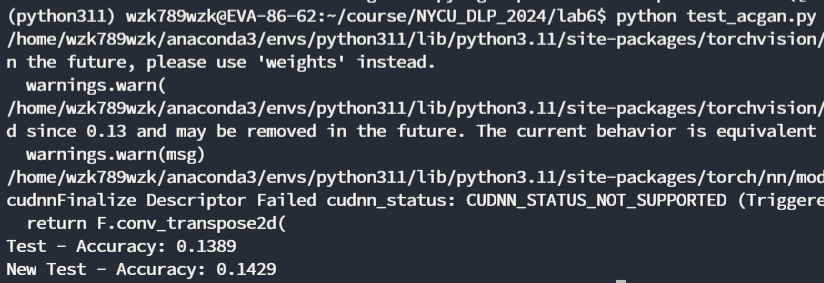
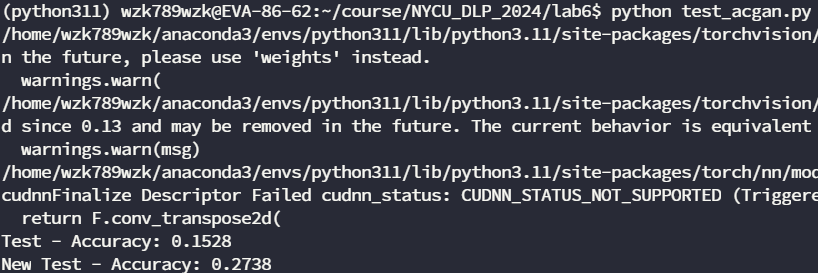
update gan results

Changed region(s): [[0.0, 0.0, 1.0, 1.0], [0.7335, 0.967, 0.7641, 1.0]]

diff --git a/lab6/test_dm.py b/lab6/test_dm.py
@@ -1,6 +1,8 @@
 # inference diffusion model
 import os
+import json
 import argparse
+import numpy as np
 
 import torch
 from torch.utils.data import DataLoader
@@ -29,17 +31,29 @@ def main(args):
     unet_model = Unet().to(args.device)
     ddpm = DDPM(unet_model=unet_model, betas=(args.beta_start, args.beta_end), noise_steps=args.step, device=args.device).to(device)
 
+    # condition
+    condition =  ['red sphere', 'yellow cube', 'cyan cylinder']
+    
+    object_class_id = json.load(open(os.path.join(args.root, 'objects.json')))
+    one_hot_vector = torch.zeros(len(object_class_id))
+    for obj in condition:
+        one_hot_vector[object_class_id[obj]] = 1
+    print(one_hot_vector)
+
     # test set
     acc = 0.0
     ddpm.load_state_dict(torch.load(args.weight_t))
     
     # The sampling process is stochastic, with an accuracy range of 0.69 to 0.82.
     # It can't guarantee the accuracy always larger than 0.8
+    acc, grid, grid_step = test(ddpm, evaluator, [one_hot_vector], device)
+    path = os.path.join(args.output_path, 'test_process.png')
+    save_image(grid_step, path)
+    
     acc, grid, grid_step = test(ddpm, evaluator, test_dataloader, device)
     path = os.path.join(args.output_path, 'test.png')
     save_image(grid, path)
-    path = os.path.join(args.output_path, 'test_process.png')
-    save_image(grid_step, path)
+
     print(f'Test set accuracy={acc:.4f}')
     
     # new test set
@@ -48,15 +62,21 @@ def main(args):
     
     # The sampling process is stochastic, with an accuracy range of 0.69 to 0.82.
     # It can't guarantee the accuracy always larger than 0.8
-    acc, grid, grid_step = test(ddpm, evaluator, new_test_dataloader, device)
-    path = os.path.join(args.output_path, 'new_test.png')
-    save_image(grid, path)
+    acc, grid, grid_step = test(ddpm, evaluator, [one_hot_vector], device)
     path = os.path.join(args.output_path, 'new_test_process.png')
     save_image(grid_step, path)
     
+    acc, grid, grid_step = test(ddpm, evaluator, new_test_dataloader, device)
+    path = os.path.join(args.output_path, 'new_test.png')
+    save_image(grid, path)
+    
     print(f'New test set accuracy={acc:.4f}')
     
-
+    
+    
+    # denoising process
+    
+    
 def test(ddpm, evaluator, test_dataloader, device):
     ddpm.eval()
     x_gen, label = [], []

diff --git a/lab6/test_acgan.py b/lab6/test_acgan.py
@@ -37,7 +37,7 @@ def main(args):
     
     # test set
     acc = 0.0
-    netG.load_state_dict(torch.load(os.path.join(root, 'Epoch_75', 'netG_Epoch_75.pth')))
+    netG.load_state_dict(torch.load(os.path.join(root, 'netG_best.pth')))
     
     acc, grid = test(args, netG, evaluator, test_dataloader, device)
     path = os.path.join(args.output_path, 'test.png')
@@ -48,7 +48,7 @@ def main(args):
     
     # new test set
     acc = 0.0
-    netG.load_state_dict(torch.load(os.path.join(root, 'Epoch_75', 'netG_Epoch_75.pth')))
+    netG.load_state_dict(torch.load(os.path.join(root, 'netG_new_best.pth')))
     
     acc, grid = test(args, netG, evaluator, new_test_dataloader, device)
     path = os.path.join(args.output_path, 'new_test.png')
@@ -90,8 +90,8 @@ if __name__ == '__main__':
     parser.add_argument('--num_class', type=int, default=24, help='numbers of class')
     parser.add_argument('--c_dims', type=int, default=100, help='condition dimension')
     parser.add_argument('--Z_dims', type=int, default=100, help='latent dimension')
-    parser.add_argument('--G_dims', type=int, default=64, help='generator feature dimension')
-    parser.add_argument('--D_dims', type=int, default=64, help='discriminator feature dimension')
+    parser.add_argument('--G_dims', type=int, default=200, help='generator feature dimension')
+    parser.add_argument('--D_dims', type=int, default=200, help='discriminator feature dimension')
 
     # inference 
     parser.add_argument('--device', type=str, default='cuda:1', help='device you choose to use')

diff --git a/lab6/test_dcgan.py b/lab6/test_dcgan.py
@@ -103,7 +103,7 @@ if __name__ == '__main__':
     parser.add_argument('--batch_size', '-b', type=int, default=32, help='batch size of data')
     
     # path
-    parser.add_argument('--weight_path', type=str, default='./output2/dcgan', help='GAN weight root path')
+    parser.add_argument('--weight_path', type=str, default='./output/dcgan', help='GAN weight root path')
     parser.add_argument('--output_path', type=str, default='./results/dcgan', help='infernece results saving path')
     
     args = parser.parse_args()

diff --git a/lab6/README.md b/lab6/README.md
@@ -48,15 +48,15 @@ Diffusion model 使用 Unet 當作學習的網路，在 Unet 中 Encoder 與 Dec
 
 |![alt text](./att/dc_test.png)|![alt text](./att/dc_new_test.png)|![alt text](./att/dc_run.png)|
 |:----------------------------:|:--------------------------------:|:---------------------------:|
-|     Test set(acc=0.4722)     |     New test set(acc=0.4524)     |       Running results       |
+|     Test set(acc=0.4444)     |     New test set(acc=0.5000)     |       Running results       |
 
 #### Diffusion model results
 
 |![alt text](./att/ddpm_test.png)|![alt text](./att/ddpm_new_test.png)|
 |:------------------------------:|:----------------------------------:|
 |      Test set(acc=0.8194)      |      New test set(acc=0.8095)      |
-|![alt text](./att/ddpm_run.png) |![alt text](./att/new_test_process.png)![alt text](./att/test_process.png)|
-|         Running results        |          Denoising process         |
+|![alt text](./att/ddpm_run.png) |![alt text](./att/test_process.png)![alt text](./att/new_test_process.png)|
+|         Running results        |   Denoising process (up:test, down:new test)        |
 
 ### Pons and cons
 
